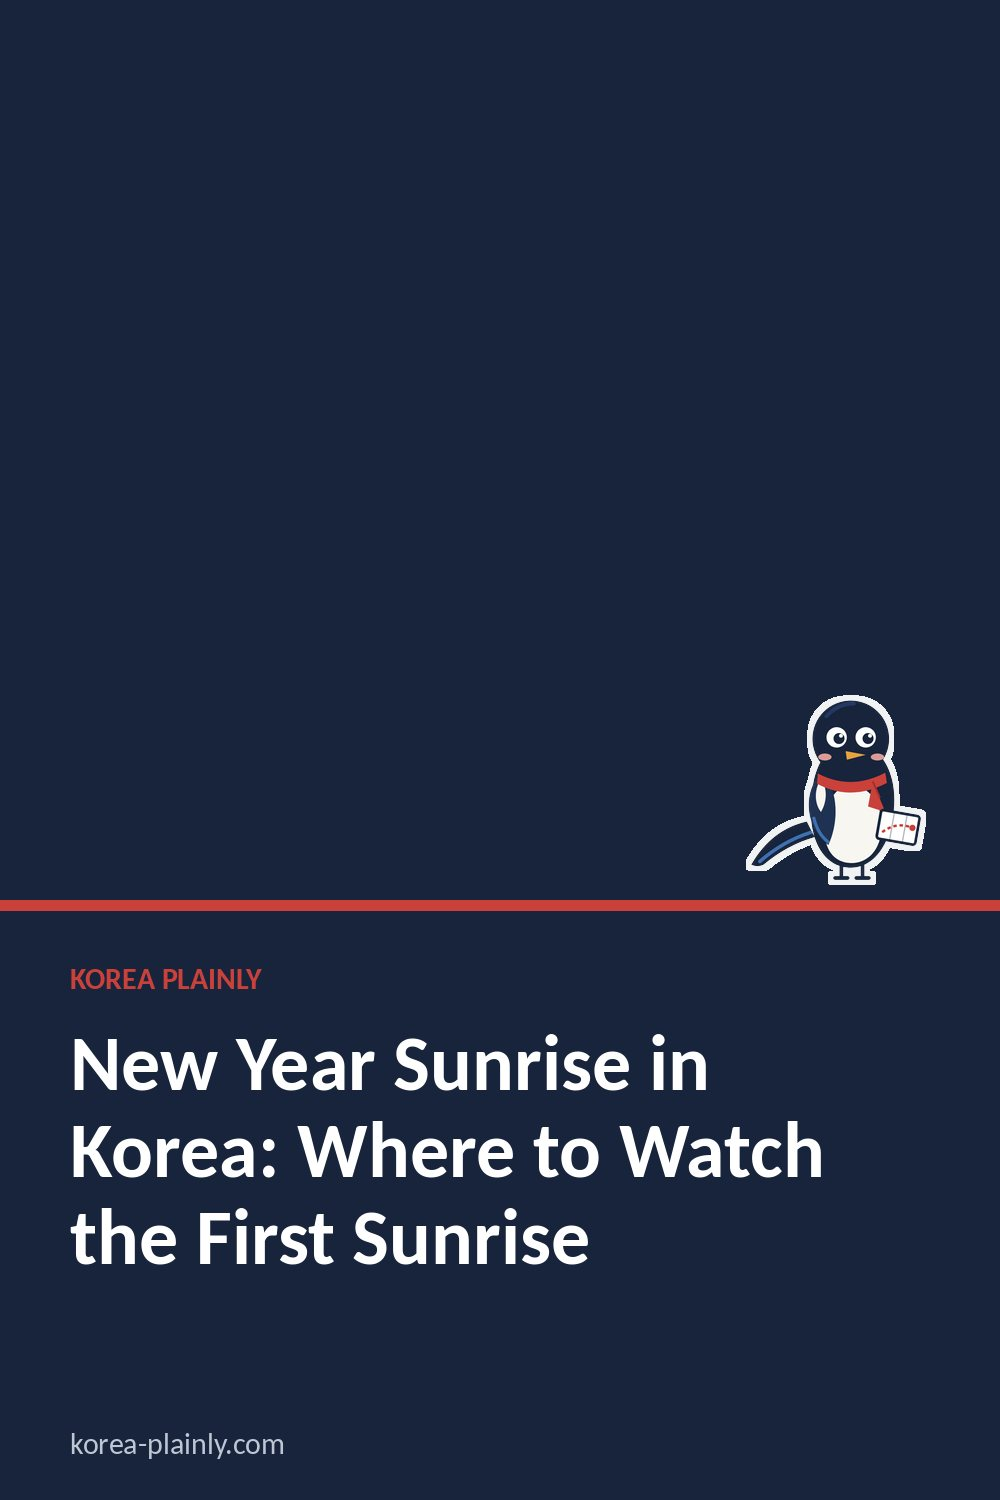
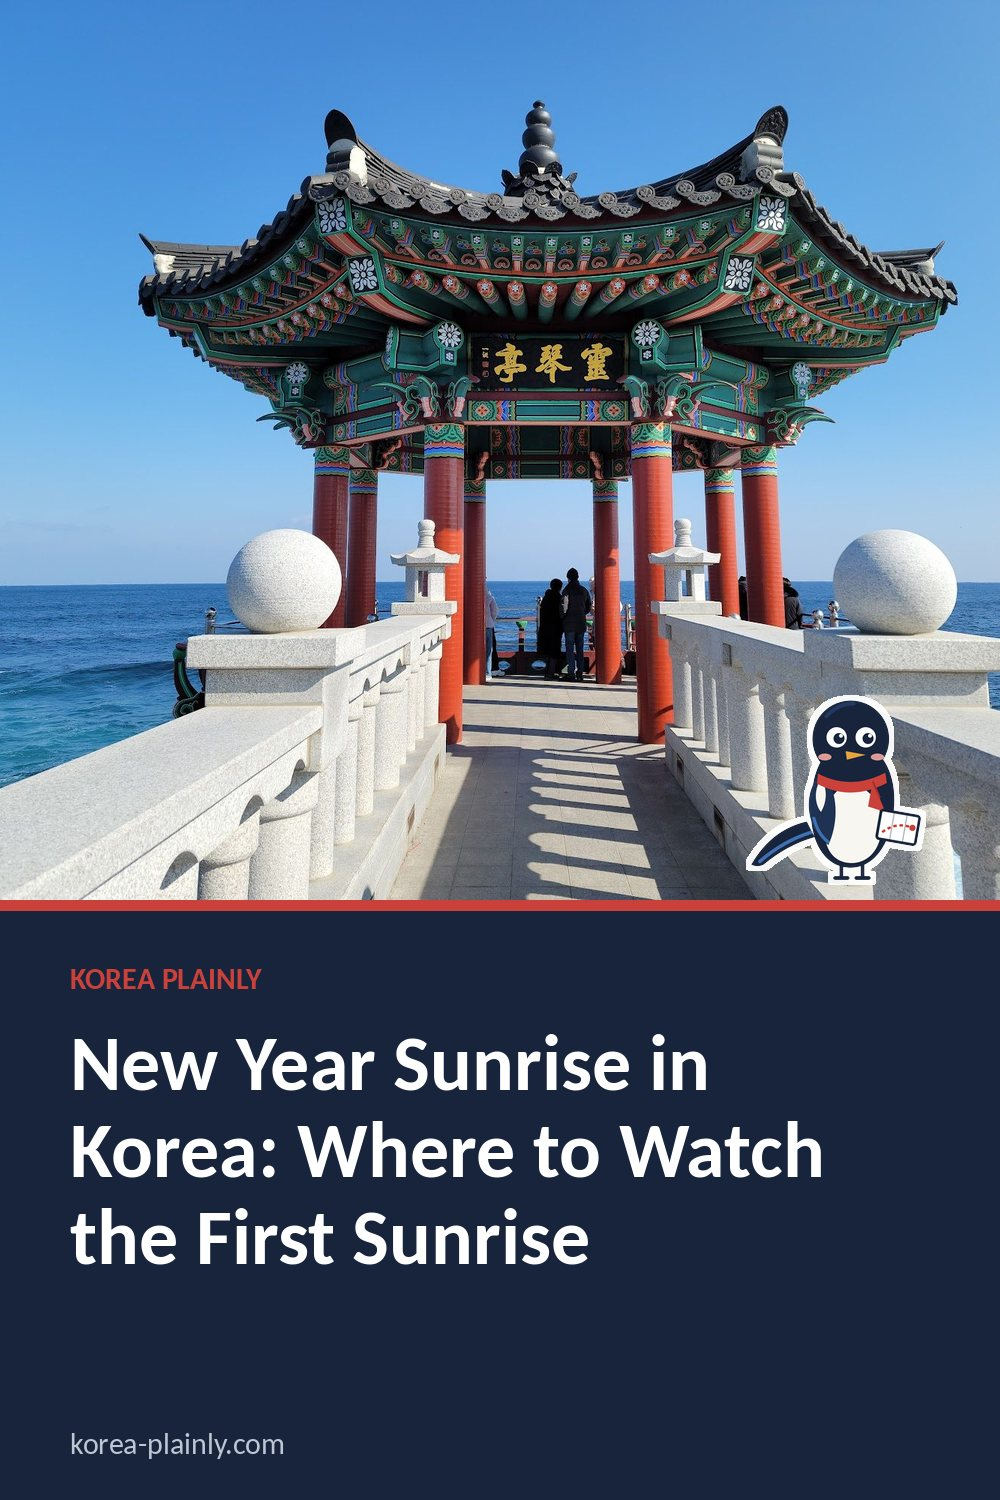
Sunrise guide cover: use the Yeonggeumjeong sunrise pavilion photo
Claude-Session: https://claude.ai/code/session_01Vdb22pTQ4CxND8N5dx14F2

diff --git a/korea-new-year-sunrise.html b/korea-new-year-sunrise.html
@@ -44,7 +44,7 @@
 
 <meta
   property="og:image"
-  content="https://korea-plainly.com/og-default.jpg"
+  content="https://korea-plainly.com/regional-sokcho-local-guide-yeonggeumjeong-sunrise-pavilion.jpg"
 >
 
 <meta
@@ -69,7 +69,7 @@
 
 <meta
   name="twitter:image"
-  content="https://korea-plainly.com/og-default.jpg"
+  content="https://korea-plainly.com/regional-sokcho-local-guide-yeonggeumjeong-sunrise-pavilion.jpg"
 >
 
 <style>
@@ -247,7 +247,7 @@ footer {
 <link rel="stylesheet" href="article.css?v=3">
 <link rel="stylesheet" href="https://fonts.googleapis.com/css2?family=DM+Sans:wght@400;500;600;700&family=Playfair+Display:ital,wght@0,600;1,600&display=swap">
 <link rel="icon" href="/favicon.svg" type="image/svg+xml">
-<script type="application/ld+json" id="kp-article-ld">{"@context": "https://schema.org", "@type": "Article", "headline": "New Year Sunrise in Korea: Where to Watch the First Sunrise", "description": "Where to see the first sunrise of the year in Korea on 1 January: east coast beaches, Jeju and Seoul hilltops, sunrise times, getting there and staying warm.", "image": ["https://korea-plainly.com/og-default.jpg"], "datePublished": "2026-10-16", "dateModified": "2026-10-16", "author": {"@type": "Organization", "name": "Korea Plainly", "url": "https://korea-plainly.com/"}, "publisher": {"@type": "Organization", "name": "Korea Plainly", "url": "https://korea-plainly.com/"}, "mainEntityOfPage": "https://korea-plainly.com/korea-new-year-sunrise.html"}</script>
+<script type="application/ld+json" id="kp-article-ld">{"@context": "https://schema.org", "@type": "Article", "headline": "New Year Sunrise in Korea: Where to Watch the First Sunrise", "description": "Where to see the first sunrise of the year in Korea on 1 January: east coast beaches, Jeju and Seoul hilltops, sunrise times, getting there and staying warm.", "image": ["https://korea-plainly.com/regional-sokcho-local-guide-yeonggeumjeong-sunrise-pavilion.jpg"], "datePublished": "2026-10-16", "dateModified": "2026-10-16", "author": {"@type": "Organization", "name": "Korea Plainly", "url": "https://korea-plainly.com/"}, "publisher": {"@type": "Organization", "name": "Korea Plainly", "url": "https://korea-plainly.com/"}, "mainEntityOfPage": "https://korea-plainly.com/korea-new-year-sunrise.html"}</script>
 <script type="application/ld+json" id="kp-breadcrumb-ld">{"@context": "https://schema.org", "@type": "BreadcrumbList", "itemListElement": [{"@type": "ListItem", "position": 1, "name": "Home", "item": "https://korea-plainly.com/"}, {"@type": "ListItem", "position": 2, "name": "Guides", "item": "https://korea-plainly.com/guides.html"}, {"@type": "ListItem", "position": 3, "name": "Travel Basics", "item": "https://korea-plainly.com/guides.html?category=travel"}, {"@type": "ListItem", "position": 4, "name": "New Year Sunrise in Korea: Where to Watch the First Sunrise", "item": "https://korea-plainly.com/korea-new-year-sunrise.html"}]}</script>
 <meta property="article:published_time" content="2026-10-16">
 </head>
@@ -289,9 +289,10 @@ Where to see the first sunrise of the year in Korea on 1 January: east coast bea
 
 <img
   class="cover"
-  src="og-default.jpg"
-  alt="Sunrise over the sea on the Korean east coast" srcset="img/og-default.96d3092f.w480.webp 480w, img/og-default.96d3092f.w800.webp 800w, og-default.jpg 1200w" sizes="(max-width: 860px) 100vw, 820px" fetchpriority="high"
+  src="regional-sokcho-local-guide-yeonggeumjeong-sunrise-pavilion.jpg"
+  alt="Yeonggeumjeong pavilion over the East Sea in Sokcho" srcset="img/regional-sokcho-local-guide-yeonggeumjeong-sunrise-pavilion.ceccf831.w480.webp 480w, img/regional-sokcho-local-guide-yeonggeumjeong-sunrise-pavilion.ceccf831.w800.webp 800w, img/regional-sokcho-local-guide-yeonggeumjeong-sunrise-pavilion.ceccf831.w1200.webp 1200w, regional-sokcho-local-guide-yeonggeumjeong-sunrise-pavilion.jpg 1600w" sizes="(max-width: 860px) 100vw, 820px" fetchpriority="high"
 >
+<p class="photo-credit" data-kp="photo-credit" style="font-size:12px;color:#777;margin:-18px 0 24px"><a href="https://maps.google.com/maps/contrib/103559777499881303976" target="_blank" rel="noopener nofollow" style="color:inherit">Photo: KYUNG HEO via Google Maps</a></p>
 
 <article>
 

diff --git a/guides.html b/guides.html
@@ -1658,7 +1658,7 @@ class="guide-card"
 href="korea-new-year-sunrise.html" data-guide-category="travel"
 >
 
-<div class="guide-image" data-thumb="thumb-auto-korea-new-year-sunrise.svg"><img class="guide-thumb" src="thumb-auto-korea-new-year-sunrise.svg" alt="" loading="eager" decoding="async">
+<div class="guide-image" data-thumb="regional-sokcho-local-guide-yeonggeumjeong-sunrise-pavilion.jpg"><img class="guide-thumb" src="regional-sokcho-local-guide-yeonggeumjeong-sunrise-pavilion.jpg" alt="" loading="eager" srcset="img/regional-sokcho-local-guide-yeonggeumjeong-sunrise-pavilion.ceccf831.w480.webp 480w, img/regional-sokcho-local-guide-yeonggeumjeong-sunrise-pavilion.ceccf831.w800.webp 800w, img/regional-sokcho-local-guide-yeonggeumjeong-sunrise-pavilion.ceccf831.w1200.webp 1200w, regional-sokcho-local-guide-yeonggeumjeong-sunrise-pavilion.jpg 1600w" sizes="(max-width: 600px) 100vw, (max-width: 1000px) 50vw, 400px" decoding="async">
 
 <span>
 63
